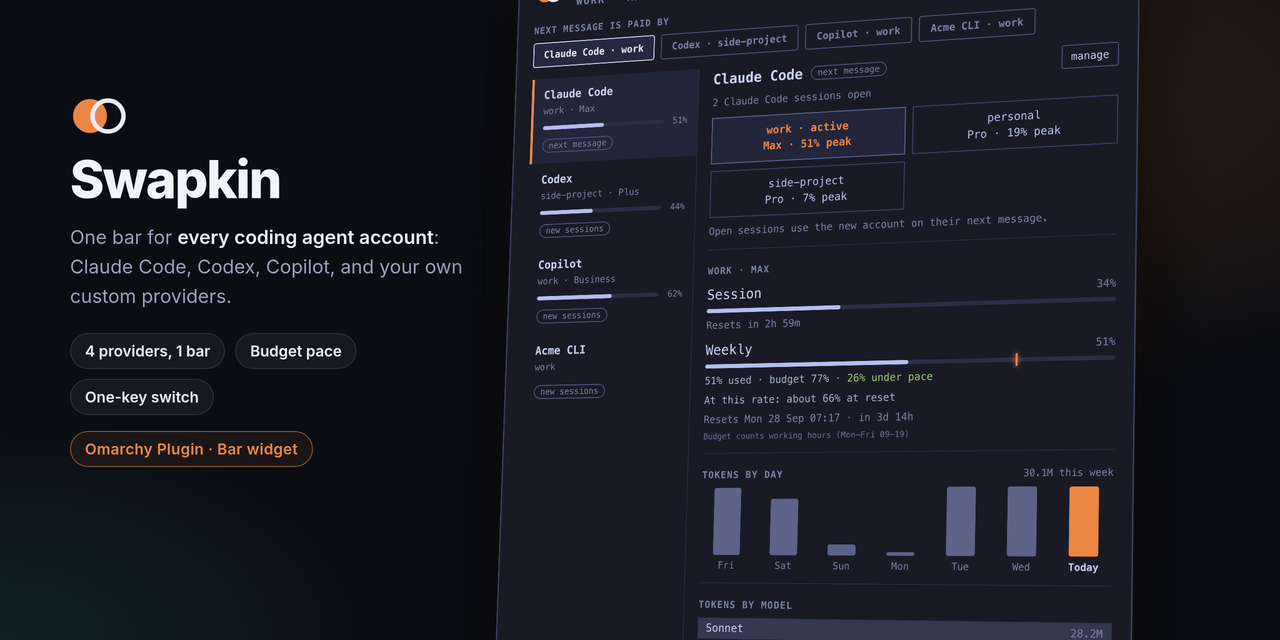
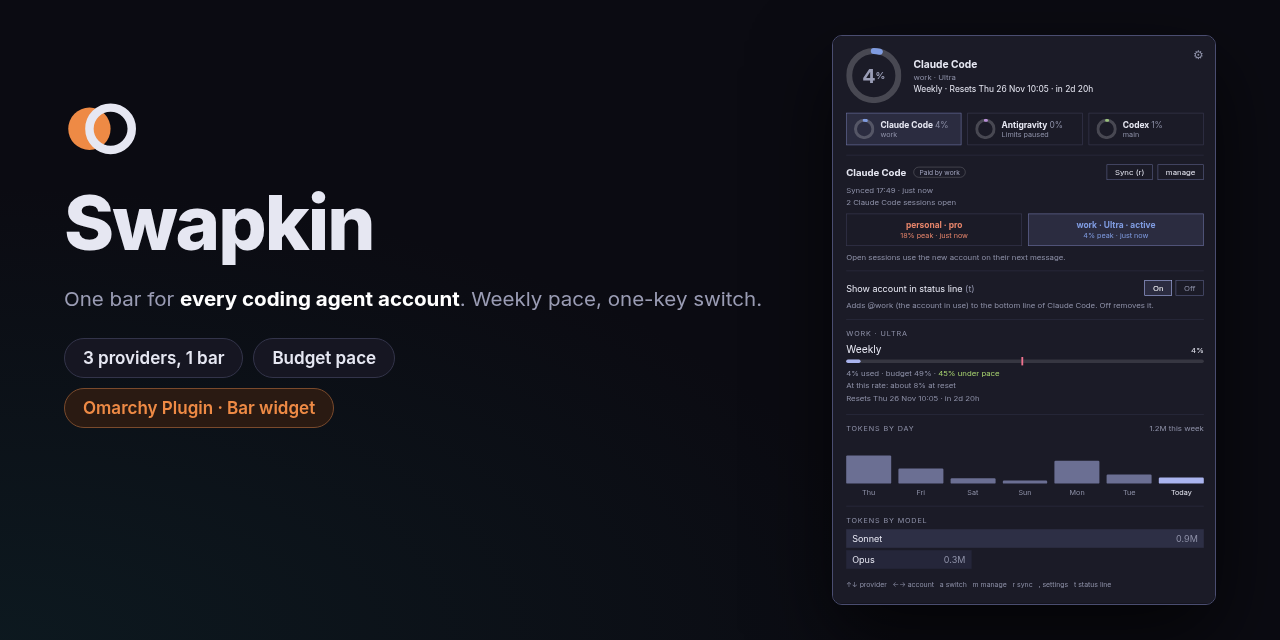
Brand images remade from the current UI; AUTO-SWITCH label now says Claude and Codex; README matches new panel

Changed region(s): [[0.0312, 0.0, 0.9688, 1.0], [0.0312, 0.5312, 0.3125, 0.7188], [0.4062, 0.5312, 0.4688, 0.625]]

diff --git a/ManagePage.qml b/ManagePage.qml
@@ -696,7 +696,7 @@ Column {
   PanelSectionHeader {
     visible: page.host.canAutoSwitch
     width: parent.width
-    text: "AUTO-SWITCH · CLAUDE ONLY"
+    text: "AUTO-SWITCH · CLAUDE AND CODEX"
     foreground: page.host.foreground
     fontFamily: page.host.fontFamily
   }

diff --git a/README.md b/README.md
@@ -15,9 +15,9 @@ it, so settings, sessions, skills, hooks and MCP logins are untouched.
 
 ## What it does
 
-- **A wide popover with two columns.** Providers on the left, the one you picked
-  on the right, and a "next message is paid by" strip on top. On a screen tall
-  enough it never scrolls; on a shorter one the columns scroll inside it.
+- **One popover.** The big usage ring and a row of provider tiles on top, then
+  "Paid by <account>", the account tiles and the usage below. On a screen tall
+  enough it never scrolls; on a shorter one it scrolls inside.
 - **Switch accounts from the bar.** Every account is a card. Move over one to
   preview its limits, then switch. Keys: `↑` `↓` provider, `←` `→` account,
   `a` switch, `m` manage (inside it: `u` use, `n` rename, `c` colour, `f` forget, `v` save the current login), `,` settings (`↑ ↓ ← →` change a row, `w` weekly pace, `o` models), `r` sync (fresh usage for every saved account).
@@ -217,8 +217,10 @@ The rules, so it never surprises you:
 - Stale or unreadable figures mean it does nothing. It takes the same lock as
   `swapkin use`, so it waits for a switch in progress.
 - Each decision is logged to `~/.local/state/swapkin/autoswitch.log` (last 200 lines).
-- Claude only, like `swapkin check`. Codex and other cold providers need a new
-  sign-in to switch, so they are never switched automatically.
+- Claude and Codex, with 2+ saved accounts, both run by `swapkin check` and sharing
+  these settings. A Codex switch reaches new sessions only; open ones keep their
+  account. Other providers are never switched automatically. The settings are
+  edited in the manage screen while Claude Code is selected.
 
 The watchdog interval and the weekly budget are widget settings:
 
